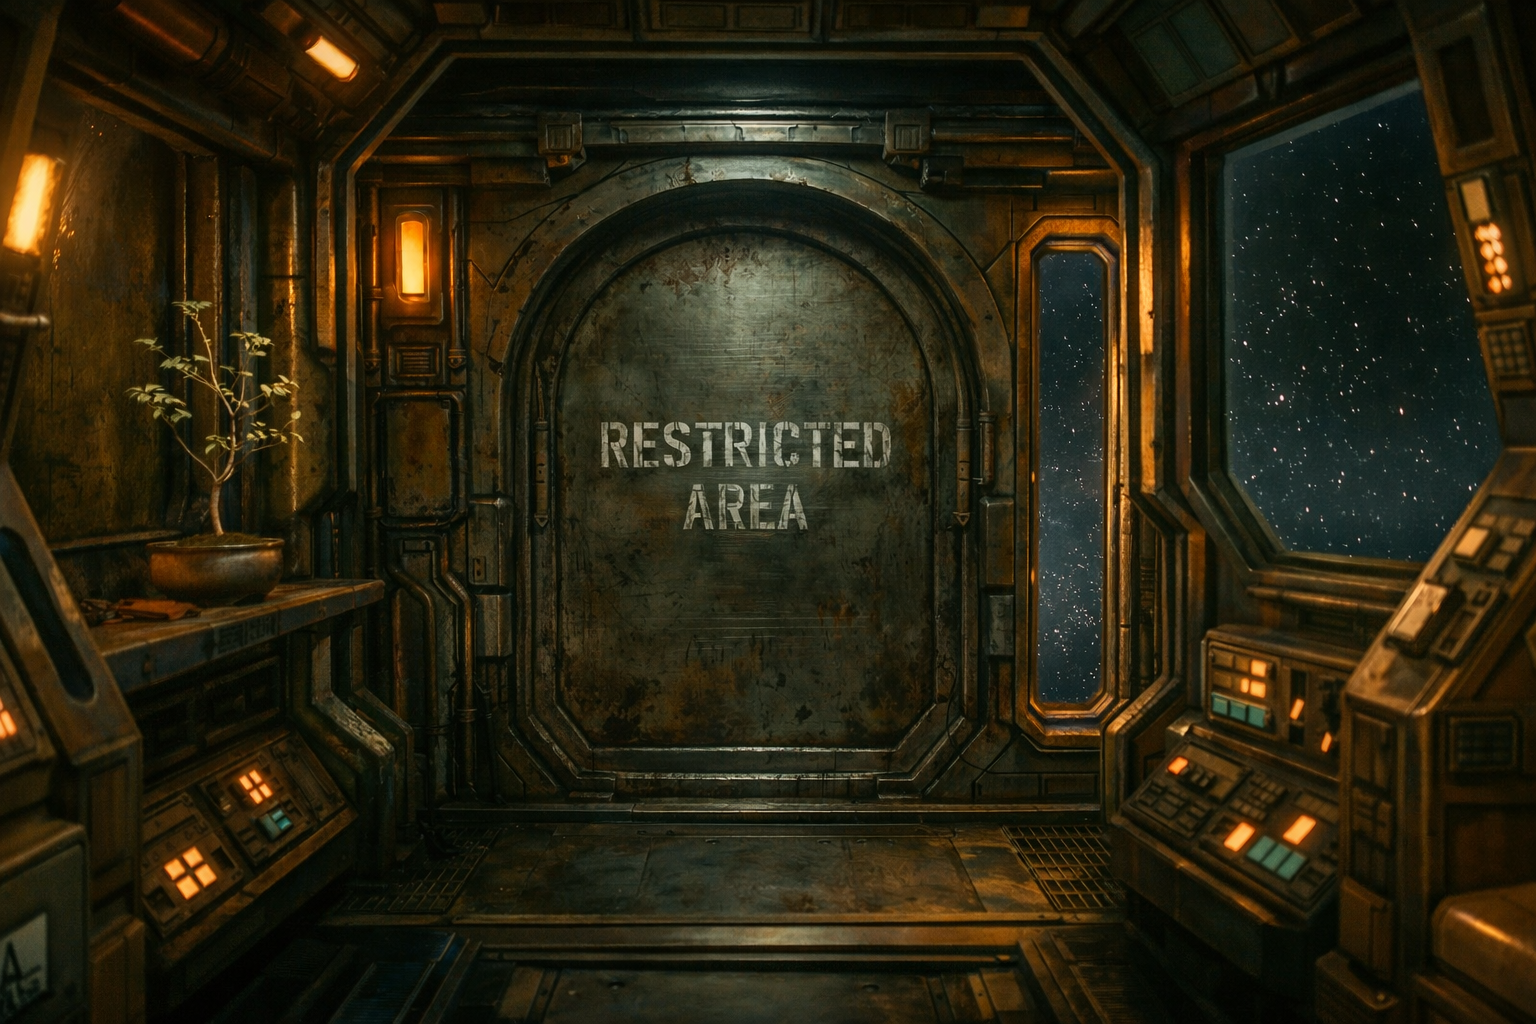
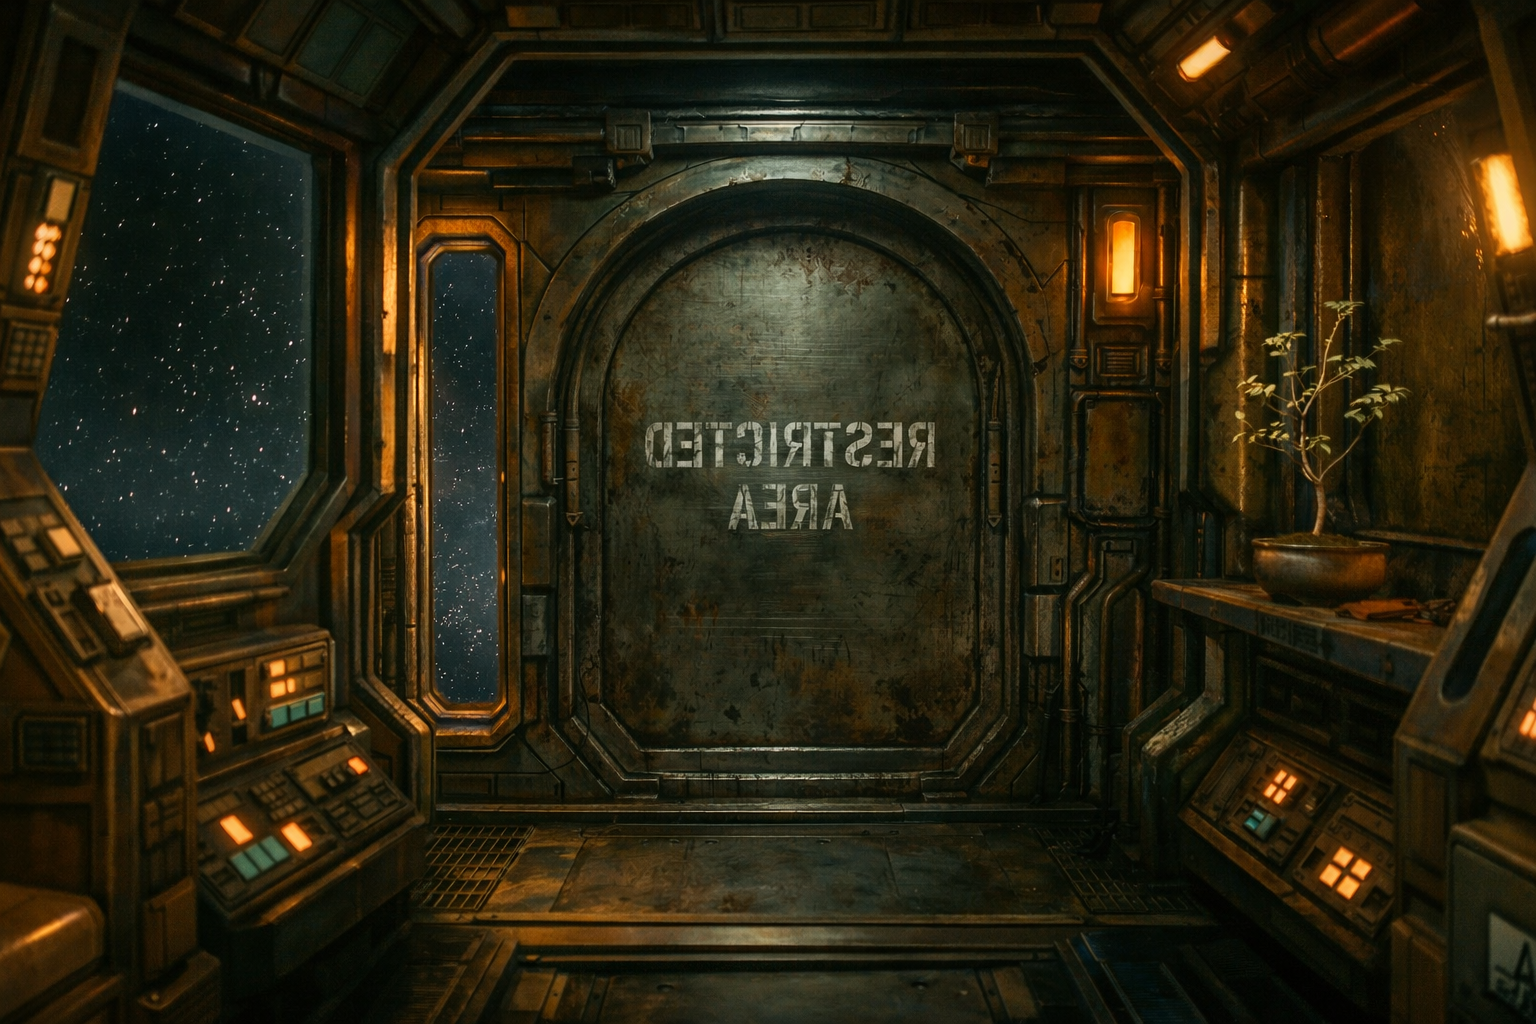
Flip cockpitDoor and BonsaiTree at file level, remove CSS scaleX(-1)

diff --git a/style.css b/style.css
@@ -37,9 +37,6 @@ body {
   object-position: top;
 }
 
-#scene-door .cockpit-img {
-  transform: scaleX(-1);
-}
 
 .episode {
   position: absolute;
